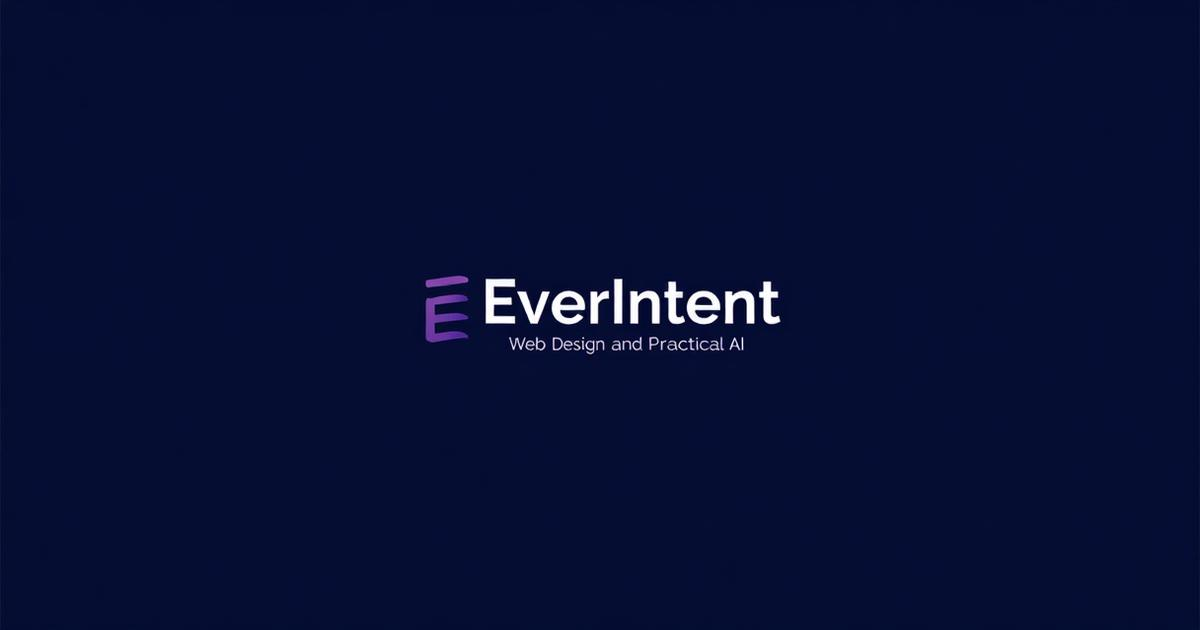
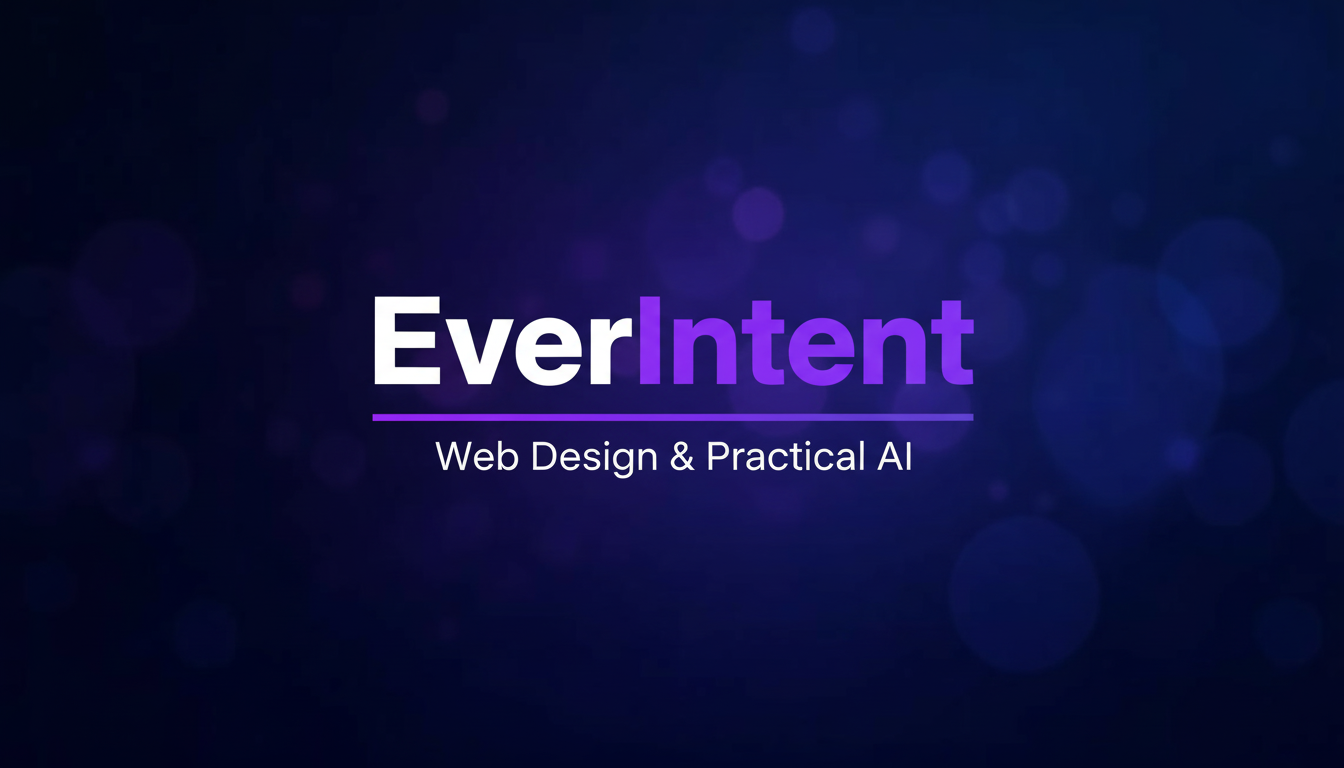
Changes

diff --git a/index.html b/index.html
@@ -3,7 +3,7 @@
   <head>
     <meta charset="UTF-8" />
     <meta name="viewport" content="width=device-width, initial-scale=1.0" />
-    <title>EverIntent | AI Employee & Smart Websites for Local Businesses</title>
+    <title>EverIntent | Web Design & Practical AI</title>
     <meta name="description" content="Stop losing money to missed calls. AI Employee answers 24/7, books appointments, and captures every lead. Smart Websites starting at $249." />
     <meta name="author" content="EverIntent LLC" />
 
@@ -12,7 +12,7 @@
     <link rel="alternate icon" href="/favicon.ico?v=1" />
 
     <!-- Open Graph -->
-    <meta property="og:title" content="EverIntent | AI Employee & Smart Websites for Local Businesses" />
+    <meta property="og:title" content="EverIntent | Web Design & Practical AI" />
     <meta property="og:description" content="Stop losing money to missed calls. AI Employee answers 24/7, books appointments, and captures every lead. Smart Websites starting at $249." />
     <meta property="og:type" content="website" />
     <meta property="og:url" content="https://everintent.com" />

diff --git a/src/components/SEO.tsx b/src/components/SEO.tsx
@@ -44,7 +44,7 @@ const SITE_NAME = 'EverIntent';
  * Default meta description per BRD v34.0 messaging
  * @constant {string}
  */
-const DEFAULT_DESCRIPTION = 'Professional smart websites for local businesses. Built in 5 days. Starting at $249. You own everything.';
+const DEFAULT_DESCRIPTION = 'Stop losing money to missed calls. AI Employee answers 24/7, books appointments, and captures every lead. Smart Websites starting at $249.';
 
 /**
  * Default Open Graph image
